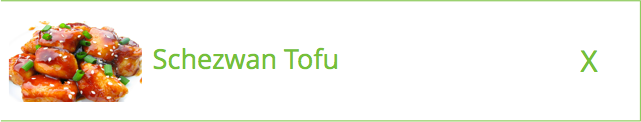
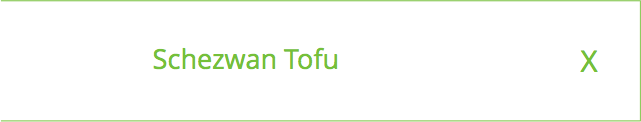
Changed to Nexus 5 with scaling

Changed region(s): [[0.0, 0.1721, 0.2184, 0.8361]]

diff --git a/framer/framer.modules.js b/framer/framer.modules.js
@@ -58,17 +58,14 @@ exports.initMenu = function() {
 };
 
 exports.showMenu = function() {
-  var count, fn, i, j;
-  for (count = i = 1; i <= 5; count = ++i) {
-    hop["option" + count].states.switchInstant('hide');
-  }
+  var count, fn, i;
   hop.MainMenu.states["switch"]('show');
   fn = function(count) {
     return Utils.delay(count * 0.1, function() {
       return hop["option" + count].states["switch"]('show');
     });
   };
-  for (count = j = 1; j <= 8; count = ++j) {
+  for (count = i = 1; i <= 8; count = ++i) {
     fn(count);
   }
   Utils.delay(8 * 0.1, function() {
@@ -123,6 +120,16 @@ exports.initRecipeList = function() {
       scale: 1
     }
   });
+  hop.recipeImg.states.add({
+    zoomIn: {
+      width: 640,
+      height: 391,
+      y: -230,
+      x: -4,
+      originX: 0,
+      originY: 1
+    }
+  });
   hop.recipeListBody.states.switchInstant('hide');
   hop.globalFooter.states.switchInstant('hide');
   results = [];
@@ -168,6 +175,10 @@ exports.hideRecipeList = function() {
   hop.recipeListBody.states["switch"]('hide');
   return hop.globalFooter.states["switch"]('hide');
 };
+
+hop.recipeItem3.on(Events.Click, function(event, layer) {
+  return hop.recipeImg.states["switch"]('zoomIn');
+});
 
 
 
@@ -308,4 +319,4 @@ exports.hideShoppingList = function() {
 
 
 },{}]},{},[])
[2 lines of base64/hex data omitted]

diff --git a/framer/framer.generated.js b/framer/framer.generated.js
@@ -3397,7 +3397,31 @@ window.__imported__["Hop Framer/layers.json.js"] = [
             "id" : "C90CA9AF-754F-4647-A89A-450010DB26EF",
             "visible" : true,
             "children" : [
+              {
+                "maskFrame" : null,
+                "id" : "AB87B421-2010-4BB8-B4CD-D7A93C9A86A1",
+                "visible" : true,
+                "children" : [
 
+                ],
+                "image" : {
+                  "path" : "images\/Layer-recipeImg-AB87B421-2010-4BB8-B4CD-D7A93C9A86A1.png",
+                  "frame" : {
+                    "y" : 373,
+                    "x" : 7,
+                    "width" : 134,
+                    "height" : 81
+                  }
+                },
+                "imageType" : "png",
+                "layerFrame" : {
+                  "y" : 373,
+                  "x" : 7,
+                  "width" : 134,
+                  "height" : 81
+                },
+                "name" : "recipeImg"
+              }
             ],
             "image" : {
               "path" : "images\/Layer-recipeItem3-C90CA9AF-754F-4647-A89A-450010DB26EF.png",

diff --git a/imported/Hop Framer/layers.json.js b/imported/Hop Framer/layers.json.js
@@ -1755,7 +1755,31 @@ window.__imported__["Hop Framer/layers.json.js"] = [
             "id" : "C90CA9AF-754F-4647-A89A-450010DB26EF",
             "visible" : true,
             "children" : [
+              {
+                "maskFrame" : null,
+                "id" : "AB87B421-2010-4BB8-B4CD-D7A93C9A86A1",
+                "visible" : true,
+                "children" : [
 
+                ],
+                "image" : {
+                  "path" : "images\/Layer-recipeImg-AB87B421-2010-4BB8-B4CD-D7A93C9A86A1.png",
+                  "frame" : {
+                    "y" : 373,
+                    "x" : 7,
+                    "width" : 134,
+                    "height" : 81
+                  }
+                },
+                "imageType" : "png",
+                "layerFrame" : {
+                  "y" : 373,
+                  "x" : 7,
+                  "width" : 134,
+                  "height" : 81
+                },
+                "name" : "recipeImg"
+              }
             ],
             "image" : {
               "path" : "images\/Layer-recipeItem3-C90CA9AF-754F-4647-A89A-450010DB26EF.png",
